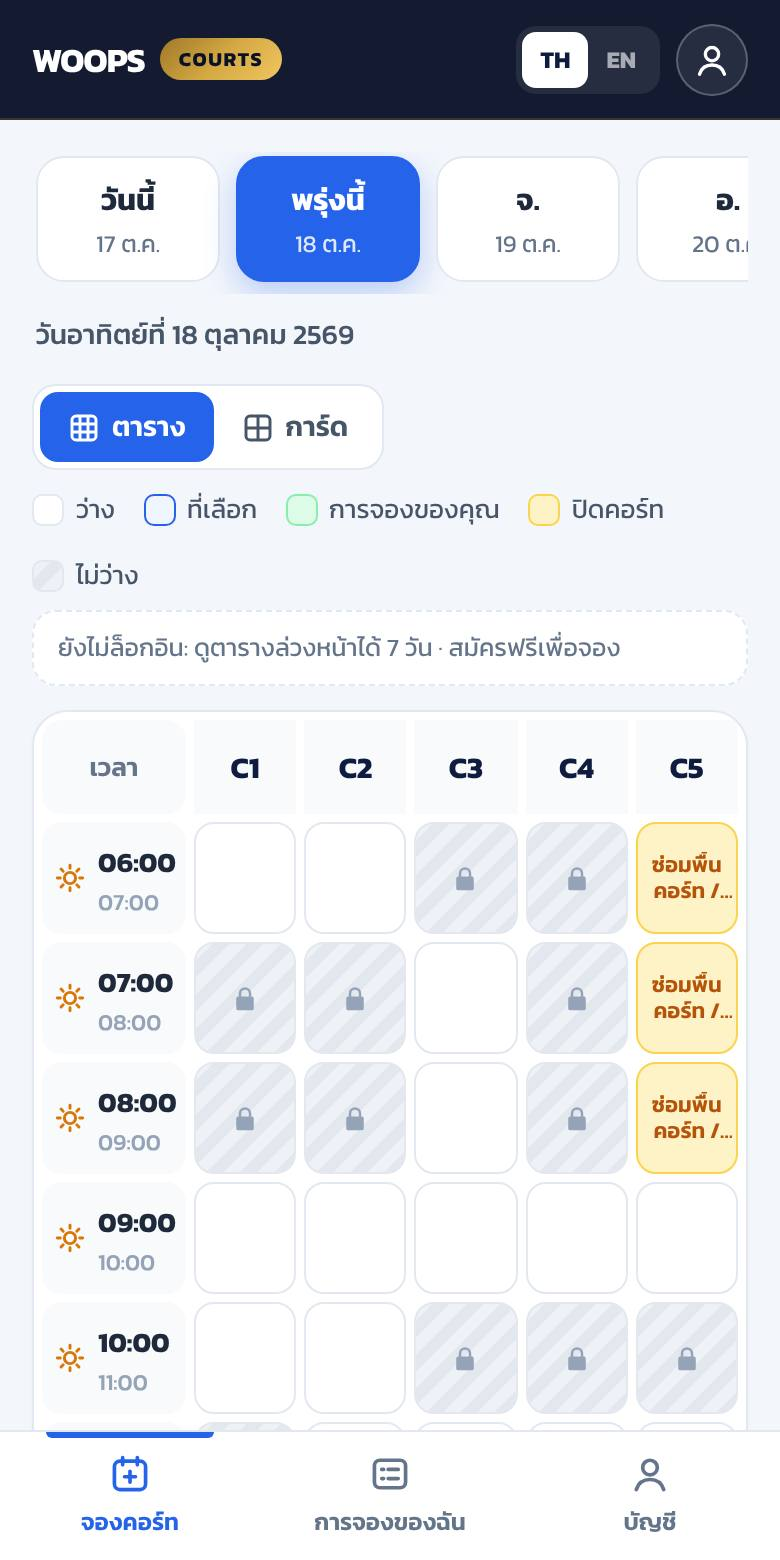
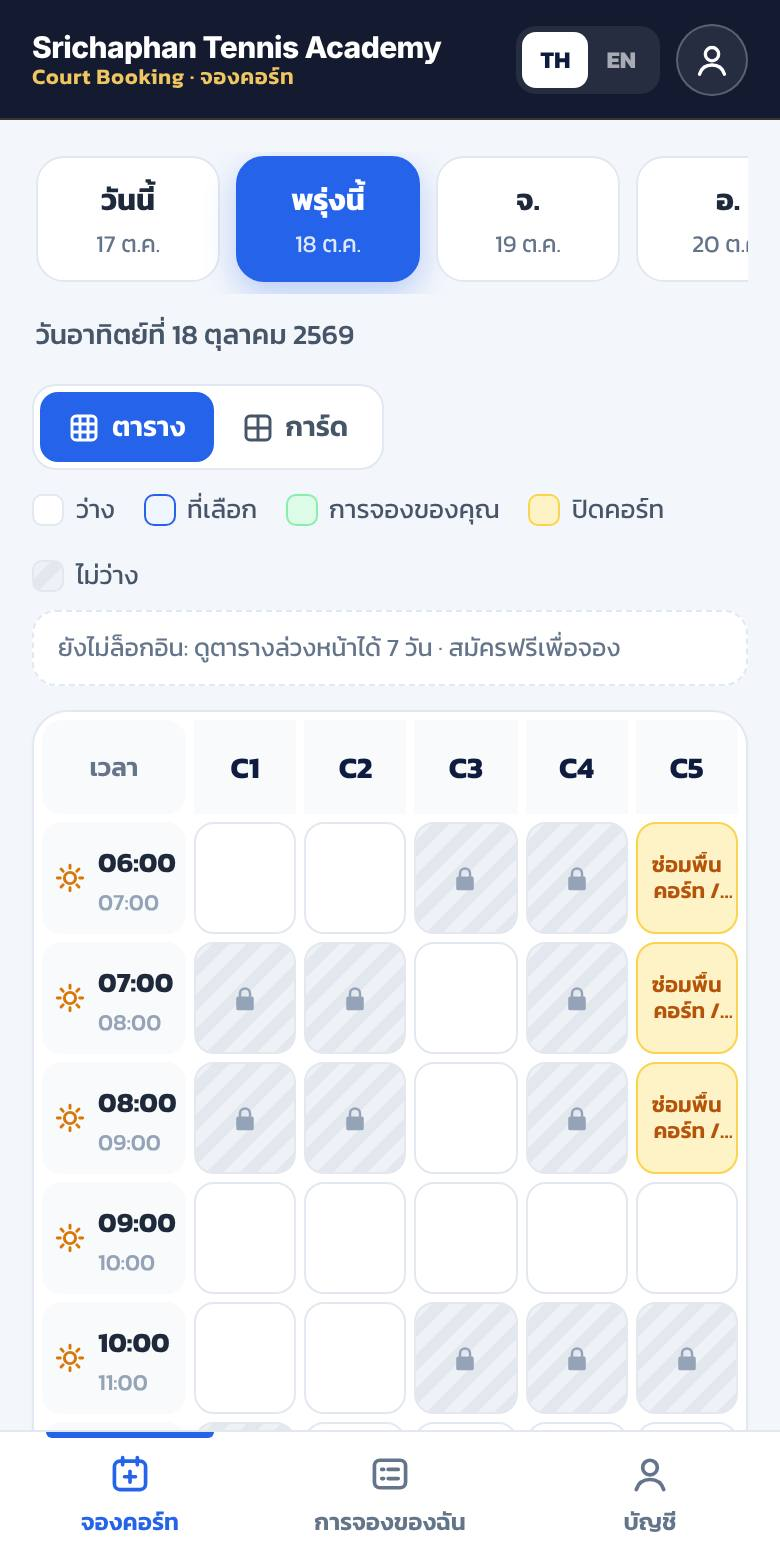
Rename venue to Srichaphan Tennis Academy
- booking.html: header and page title show Srichaphan Tennis Academy.
- WOOPS_Court_Booking.gs: CONFIG.VENUE_NAME, used in the doGet health check.
- Setup guide and screenshots updated with the venue name.
- index.html: drawer link subtitle names the venue.

Claude-Session: https://claude.ai/code/session_013SAZA26NJuGG5He361yAzX

Changed region(s): [[0.0308, 0.0, 0.5538, 0.0615]]

diff --git a/booking.html b/booking.html
@@ -3,7 +3,7 @@
 <head>
 <meta charset="UTF-8">
 <meta name="viewport" content="width=device-width, initial-scale=1.0, viewport-fit=cover">
-<title>Court Booking · WOOPS Social Club</title>
+<title>จองคอร์ท · Srichaphan Tennis Academy</title>
 <link rel="preconnect" href="https://fonts.googleapis.com">
 <link href="https://fonts.googleapis.com/css2?family=Inter:wght@400;500;600;700;800;900&family=Kanit:wght@400;500;600;700&display=swap" rel="stylesheet">
 <style>
@@ -34,9 +34,9 @@
   .topbar { position:sticky; top:0; z-index:50; background:rgba(10,18,40,.96); backdrop-filter:blur(10px);
             border-bottom:1px solid rgba(212,168,67,.2); height:60px; padding:0 16px;
             display:flex; align-items:center; justify-content:space-between; gap:12px; }
-  .brand { display:flex; align-items:center; gap:8px; color:#fff; text-decoration:none; font-weight:900; font-size:17px; letter-spacing:-.4px; white-space:nowrap; }
-  .brand .badge { background:linear-gradient(135deg,var(--gold-dk),var(--gold),var(--gold-lt)); color:var(--navy3);
-                  font-size:10px; font-weight:800; padding:3px 9px; border-radius:20px; letter-spacing:.8px; text-transform:uppercase; }
+  .brand { display:flex; flex-direction:column; justify-content:center; min-width:0; color:#fff; text-decoration:none; line-height:1.15; }
+  .brand-name { font-family:'Inter',sans-serif; font-weight:800; font-size:15px; letter-spacing:-.3px; white-space:nowrap; overflow:hidden; text-overflow:ellipsis; }
+  .brand-sub { font-size:11px; font-weight:600; color:var(--gold-lt); letter-spacing:.3px; white-space:nowrap; overflow:hidden; text-overflow:ellipsis; }
   .top-actions { display:flex; align-items:center; gap:8px; }
   .lang { display:flex; background:rgba(255,255,255,.08); border-radius:10px; padding:3px; }
   .lang button { border:0; background:transparent; color:rgba(255,255,255,.6); font-size:12px; font-weight:700; padding:5px 9px; border-radius:7px; }
@@ -243,7 +243,7 @@
 <body>
 
 <header class="topbar">
-  <a href="index.html" class="brand">WOOPS <span class="badge">Courts</span></a>
+  <a href="index.html" class="brand"><span class="brand-name">Srichaphan Tennis Academy</span><span class="brand-sub">Court Booking · จองคอร์ท</span></a>
   <div class="top-actions">
     <div class="lang"><button data-lang="th">TH</button><button data-lang="en">EN</button></div>
     <button class="avatar" id="btnAvatar" aria-label="account"></button>
@@ -1091,7 +1091,7 @@ var DemoApi = (function () {
   function seed() {
     var c = clock();
     var users = [
-      { id: 'U-admin', phone: '0800000001', password: 'admin123', name: 'Admin WOOPS', nickname: 'Admin', role: 'admin', status: 'active', created_at: stamp() },
+      { id: 'U-admin', phone: '0800000001', password: 'admin123', name: 'Admin Srichaphan', nickname: 'Admin', role: 'admin', status: 'active', created_at: stamp() },
       { id: 'U-member', phone: '0800000002', password: 'member123', name: 'สมาชิก ทดลอง', nickname: 'Mem', role: 'member', status: 'active', created_at: stamp() },
       { id: 'U-user', phone: '0800000003', password: 'user123', name: 'ผู้ใช้ ทดลอง', nickname: 'Guest', role: 'user', status: 'active', created_at: stamp() }
     ];
@@ -1117,7 +1117,7 @@ var DemoApi = (function () {
     var tmr = addDays(c.today, 1);
     bookings = bookings.filter(function (b) { return !(b.date === tmr && b.court === 'C5' && b.hour < 9); });
     [6, 7, 8].forEach(function (h) {
-      bookings.push({ id: id('B'), date: tmr, hour: h, court: 'C5', user_id: 'U-admin', name: 'Admin WOOPS (Admin)', type: 'block', note: 'ซ่อมพื้นคอร์ท / Maintenance', status: 'active', created_at: stamp() });
+      bookings.push({ id: id('B'), date: tmr, hour: h, court: 'C5', user_id: 'U-admin', name: 'Admin Srichaphan (Admin)', type: 'block', note: 'ซ่อมพื้นคอร์ท / Maintenance', status: 'active', created_at: stamp() });
     });
     return { users: users, bookings: bookings };
   }

diff --git a/index.html b/index.html
@@ -407,7 +407,7 @@
       <div class="d-icon" style="background:rgba(37,99,235,.15);">🎾</div>
       <div class="d-texts">
         <span>Court Booking</span>
-        <span class="d-sub">จองคอร์ทเทนนิสรายชั่วโมง</span>
+        <span class="d-sub">จองคอร์ท Srichaphan Tennis Academy</span>
       </div>
     </a>
 

diff --git a/apps-script/WOOPS-Court-Booking-Setup.md b/apps-script/WOOPS-Court-Booking-Setup.md
@@ -1,6 +1,6 @@
-# คู่มือระบบจองคอร์ท WOOPS Court Booking
+# คู่มือระบบจองคอร์ท Srichaphan Tennis Academy
 
-ระบบจองคอร์ทเทนนิส **5 คอร์ท (C1–C5)** เปิด **06:00–23:00 ทุกวัน** จองเป็น **รายชั่วโมง**
+ระบบจองคอร์ทเทนนิสของ **Srichaphan Tennis Academy** — **5 คอร์ท (C1–C5)** เปิด **06:00–23:00 ทุกวัน** จองเป็น **รายชั่วโมง**
 ผู้ใช้แต่ละเลเวลเห็นตารางและจองล่วงหน้าได้ไม่เท่ากัน
 
 | เลเวล | ดูตาราง + จองล่วงหน้า | จองได้สูงสุด/วัน | จองค้างได้ | ต้องยกเลิกก่อนเล่น | สิทธิ์พิเศษ |
@@ -34,14 +34,14 @@
  ผู้เล่น (มือถือ/คอม)                 Google (ฟรี)
 ┌──────────────────┐   ขอดูตาราง/จอง  ┌───────────────────────┐   อ่าน/เขียน  ┌──────────────────┐
 │  booking.html    │ ───────────────▶ │ Apps Script Web App   │ ────────────▶ │ Google Sheet     │
-│  (หน้าเว็บ WOOPS) │ ◀─────────────── │ WOOPS_Court_Booking.gs│ ◀──────────── │ Users / Bookings │
+│  (หน้าเว็บจอง)    │ ◀─────────────── │ WOOPS_Court_Booking.gs│ ◀──────────── │ Users / Bookings │
 └──────────────────┘   ผลลัพธ์ (JSON)  │ ตรวจสิทธิ์ทุกครั้ง      │               │ / Roles          │
                                      └───────────────────────┘               └──────────────────┘
 ```
 
 | ส่วน | ไฟล์ | อยู่ที่ไหน |
 |---|---|---|
-| หน้าเว็บจอง | `booking.html` | เว็บ WOOPS (repo `woops.socialclub`) |
+| หน้าเว็บจอง | `booking.html` | เว็บ woops.socialclub (repo `woops.socialclub`) |
 | ระบบหลังบ้าน | `apps-script/WOOPS_Court_Booking.gs` | Apps Script ที่ผูกกับ Google Sheet |
 | ฐานข้อมูล | Google Sheet แท็บ **Users**, **Bookings**, **Roles** | Google Drive ของเจ้าของระบบ |
 
@@ -59,12 +59,12 @@
 ## 2. ติดตั้งครั้งแรก (เจ้าของระบบ)
 
 **ต้องมี:** บัญชี Google ที่จะเป็นเจ้าของข้อมูล (แนะนำบัญชีของสโมสร ไม่ใช่บัญชีส่วนตัวของทีมงานคนใดคนหนึ่ง)
-และสิทธิ์แก้ไฟล์ในเว็บ WOOPS (repo `woops.socialclub` บน GitHub)
+และสิทธิ์แก้ไฟล์ใน repo `woops.socialclub` บน GitHub (ที่เก็บหน้าเว็บจอง)
 
 ### ขั้นที่ 1 — สร้าง Google Sheet
 
 1. ล็อกอิน Google ด้วยบัญชีเจ้าของระบบ → เปิด [sheets.new](https://sheets.new)
-2. ตั้งชื่อชีท (มุมซ้ายบน "Untitled spreadsheet") เป็น **WOOPS Court Booking**
+2. ตั้งชื่อชีท (มุมซ้ายบน "Untitled spreadsheet") เป็น **Srichaphan Court Booking**
 3. ไม่ต้องพิมพ์อะไรในชีท ปล่อยว่างไว้ — สคริปต์จะสร้างแท็บให้เอง
 
 ### ขั้นที่ 2 — วางโค้ด Apps Script
@@ -73,7 +73,7 @@
    จะเปิดแท็บใหม่ เป็นหน้าเขียนโค้ด มีไฟล์ `Code.gs` ที่มี `function myFunction() {}` อยู่
 2. คลิกในช่องโค้ด → **Ctrl+A** (Mac: Cmd+A) → **Delete** ให้ว่างเปล่า
 3. เปิดไฟล์ `apps-script/WOOPS_Court_Booking.gs` → ก๊อปทั้งไฟล์ → วางลงไป
-4. ตั้งชื่อโปรเจกต์ (มุมซ้ายบน "Untitled project") เป็น **WOOPS Court Booking**
+4. ตั้งชื่อโปรเจกต์ (มุมซ้ายบน "Untitled project") เป็น **Srichaphan Court Booking**
 5. กด **Ctrl+S** (หรือไอคอนแผ่นดิสก์ 💾) เพื่อบันทึก
 
 ### ขั้นที่ 3 — รัน `setup` (สร้างแท็บในชีท)
@@ -85,7 +85,7 @@
 4. เลือกบัญชี Google ของคุณ
 5. จะเจอหน้า **"Google hasn't verified this app"** (หน้าตาน่ากลัว แต่ปกติ)
    → กด **Advanced** (ข้อความเล็ก ๆ ด้านล่างซ้าย)
-   → กด **Go to WOOPS Court Booking (unsafe)**
+   → กด **Go to Srichaphan Court Booking (unsafe)**
    ❗ ปลอดภัย เพราะเป็นสคริปต์ของคุณเองที่เพิ่งวางเข้าไป Google แค่ยังไม่ได้ตรวจเพราะไม่ได้เผยแพร่สาธารณะ
 6. หน้าถัดไปบอกว่าสคริปต์ขอสิทธิ์อะไรบ้าง (ดู/แก้ Google Sheets, เชื่อมต่อภายนอก) → กด **Allow**
 7. ดูที่ **Execution log** ด้านล่าง ต้องขึ้น
@@ -106,7 +106,7 @@
 3. กรอก
    | ช่อง | ใส่ |
    |---|---|
-   | Description | `WOOPS Court Booking v1` |
+   | Description | `Srichaphan Court Booking v1` |
    | Execute as | **Me (อีเมลของคุณ)** |
    | Who has access | **Anyone** |
 
@@ -122,7 +122,7 @@
 เปิด URL ที่ก๊อปมาในแท็บใหม่ของ browser ต้องเห็นข้อความประมาณนี้
 
 ```json
-{"ok":true,"service":"WOOPS Court Booking","clock":{"today":"2026-10-17","hour":13,"now":1792216320000}}
+{"ok":true,"service":"Srichaphan Tennis Academy Court Booking","clock":{"today":"2026-10-17","hour":13,"now":1792216320000}}
 ```
 
 - เห็นแบบนี้ = หลังบ้านพร้อม ✅
@@ -219,7 +219,7 @@
 
 ### สมัครและล็อกอิน
 
-1. เปิด `https://<เว็บ WOOPS>/booking.html` (หรือหน้าแรก → เมนู **Court Booking**)
+1. เปิด `https://<เว็บ>/booking.html` (หรือหน้าแรก → เมนู **Court Booking**)
 2. กดไอคอนคนมุมขวาบน → แท็บ **สมัครสมาชิก**
 3. กรอกเบอร์โทร, ชื่อ-นามสกุล, ชื่อเล่น (ไม่บังคับ), รหัสผ่านอย่างน้อย 6 ตัว → **สมัครสมาชิก**
 4. ครั้งต่อไปใช้เบอร์ + รหัสผ่าน **เข้าสู่ระบบ** (ระบบจำการล็อกอินไว้ 30 วัน)
